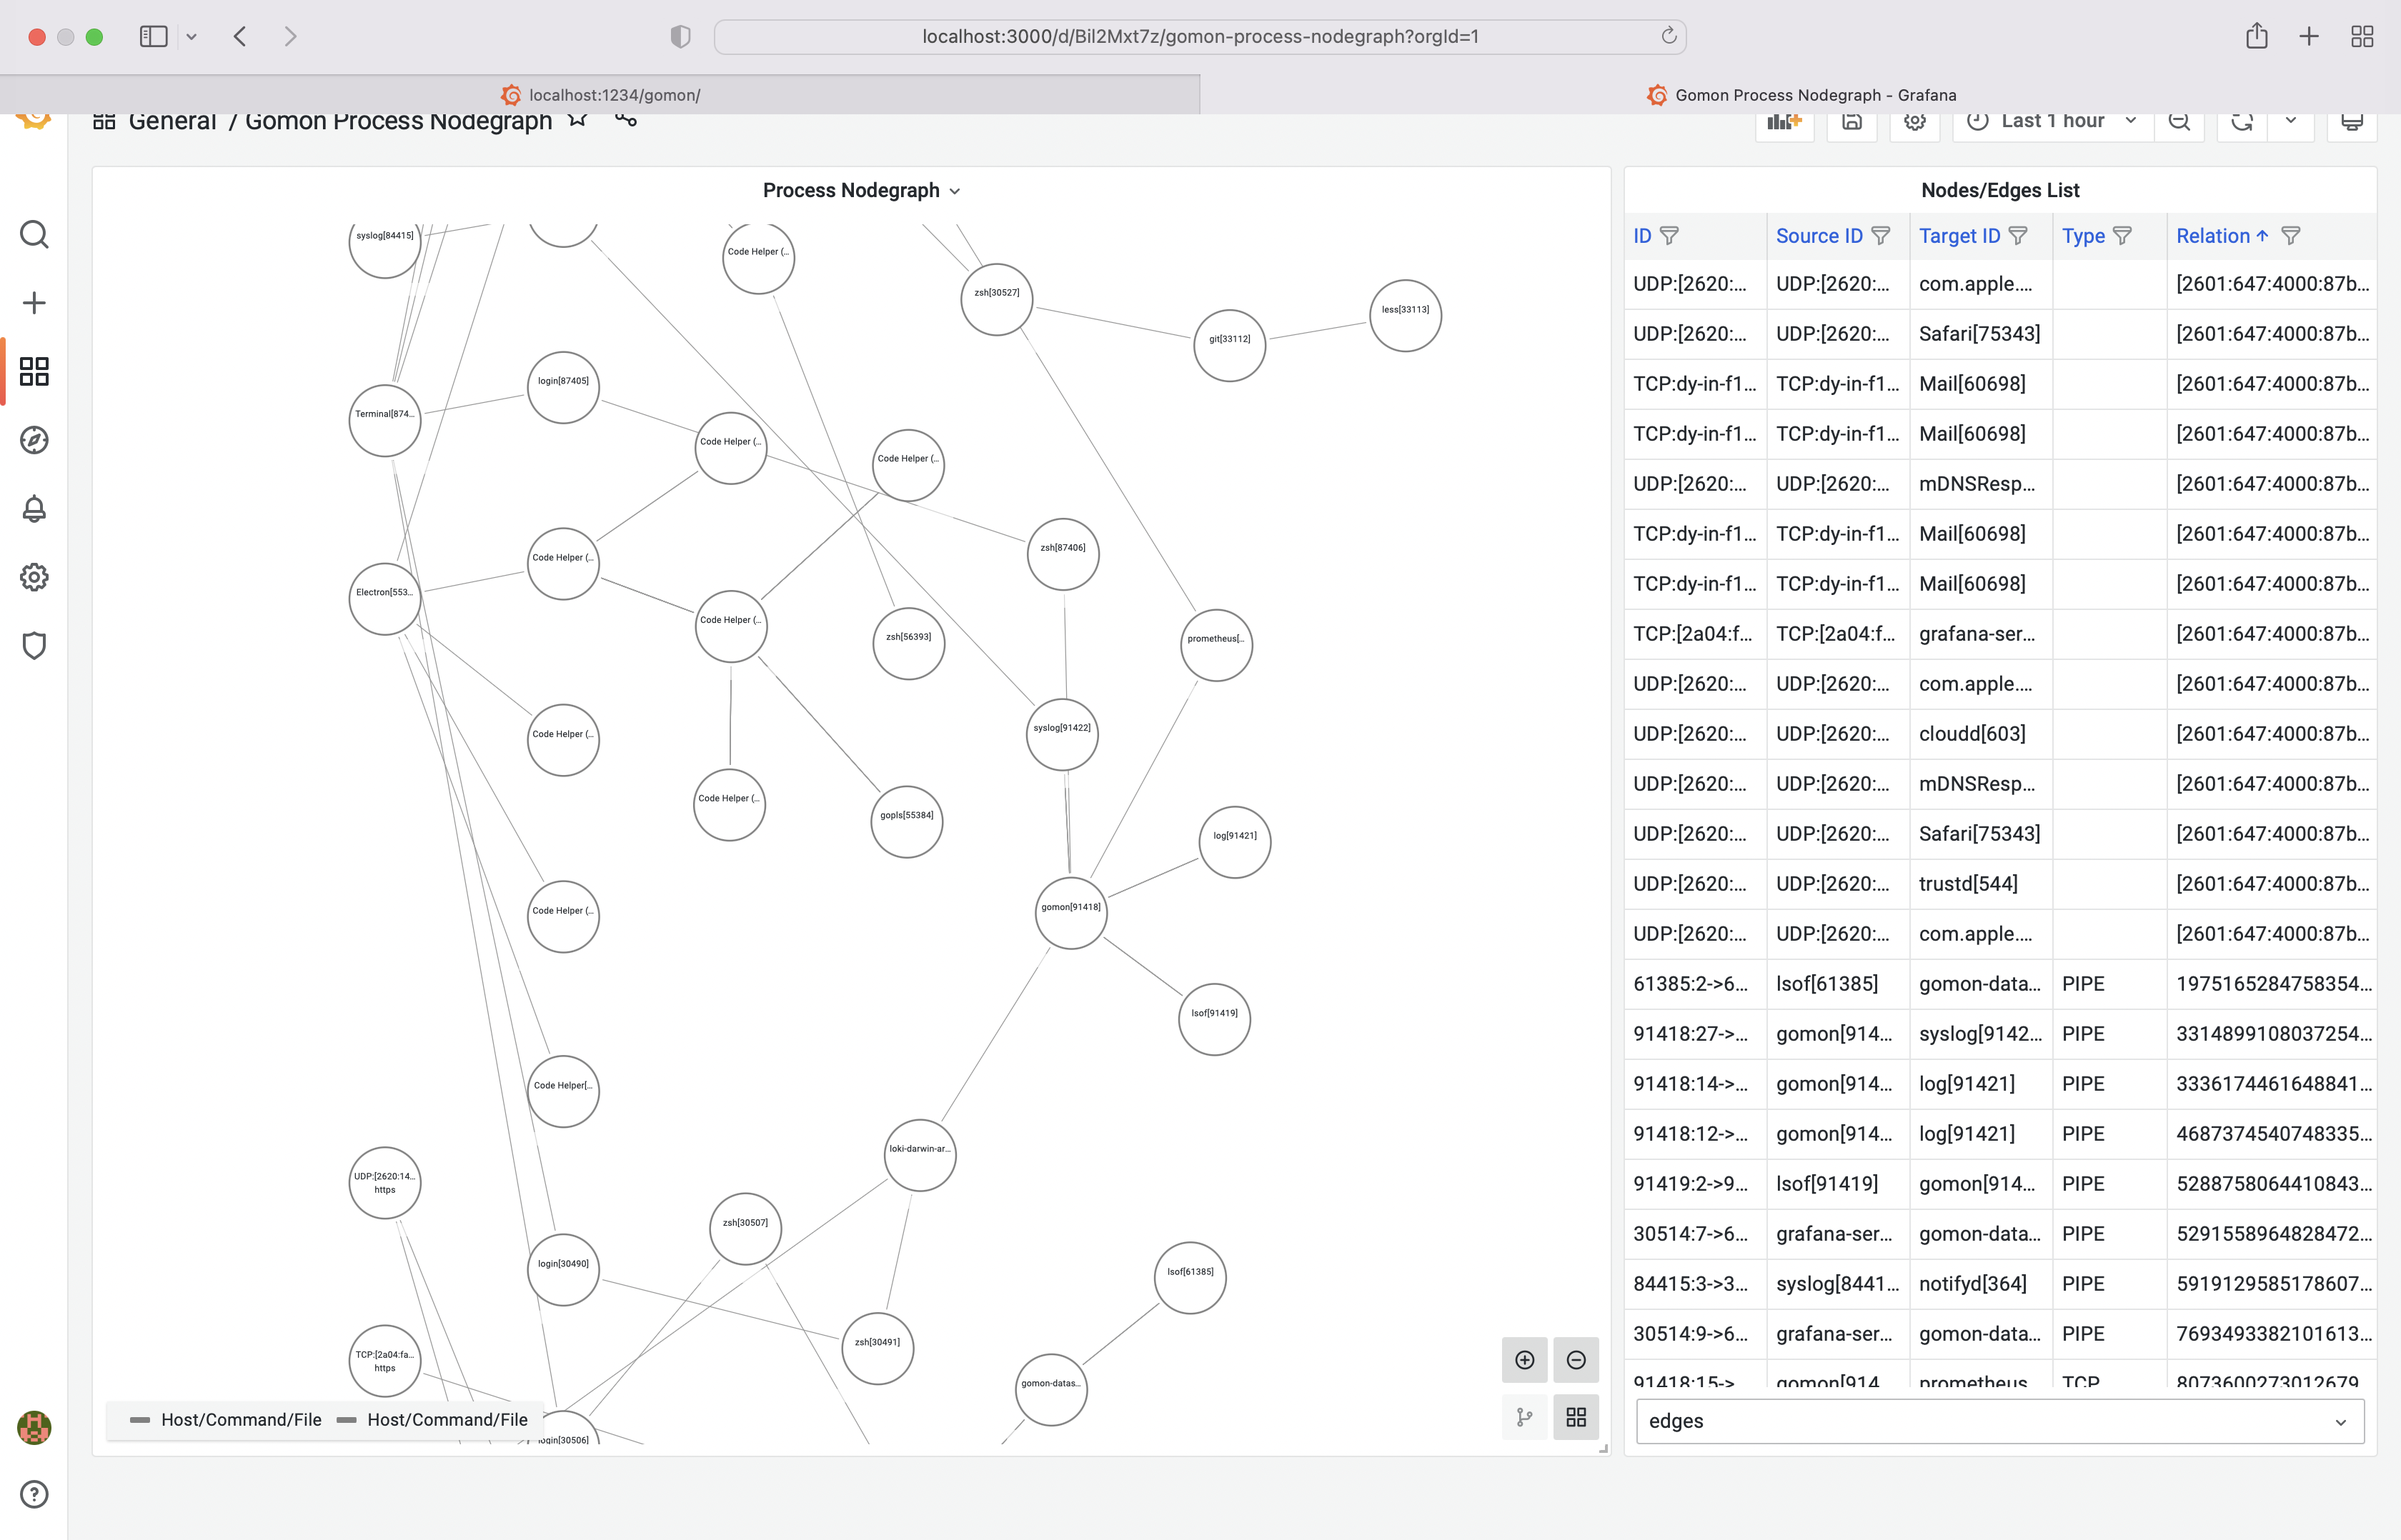
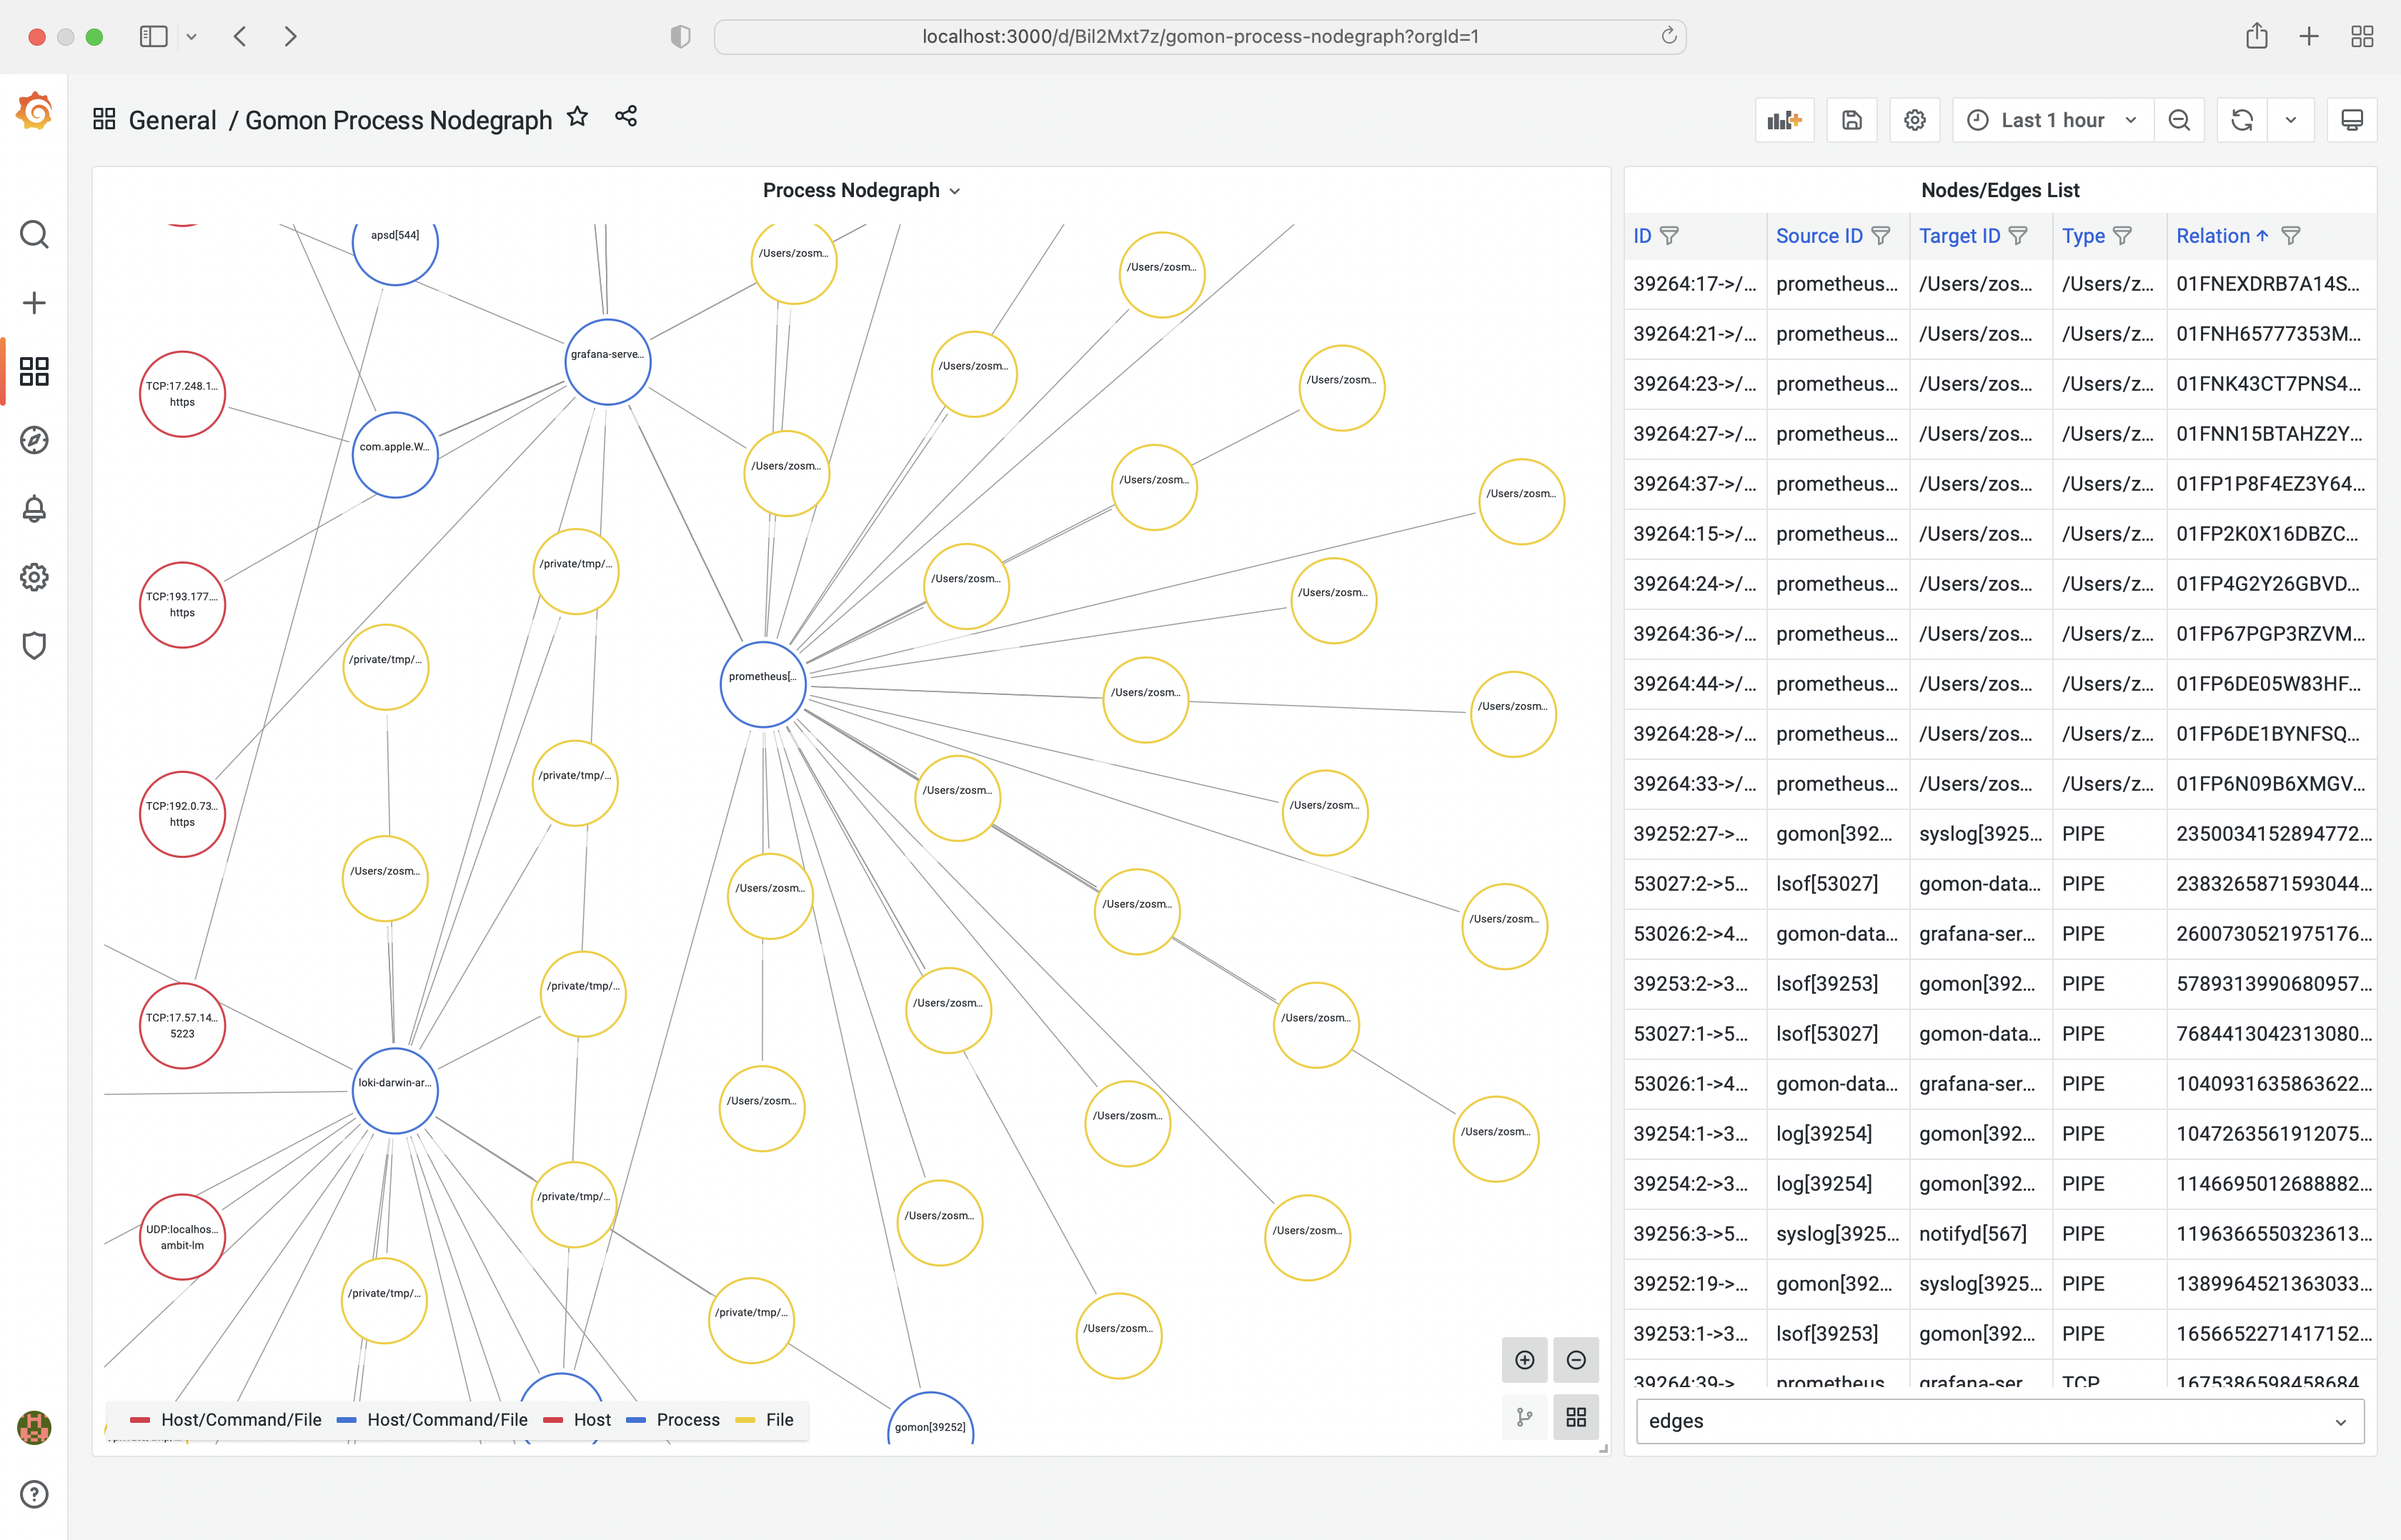
fix node colors in nodegraph

diff --git a/Magefile.go b/Magefile.go
@@ -33,9 +33,9 @@ var (
 		return runtime.GOARCH
 	}()
 
+	// getExecutableName in github.com/grafana/grafana-plugin-sdk-go/build/common.go
+	// expects the executable name to be appended with "_$GOOS_$GOARCH"
 	backend = fmt.Sprintf("dist/%s_%s_%s", plugin, goos, goarch)
-
-	homeDir, _ = os.UserHomeDir()
 
 	grafanaDir = func() string {
 		if dir, ok := os.LookupEnv("GRAFANA_DIR"); ok {
@@ -70,7 +70,7 @@ var (
 
 // Upgrade refreshes dependencies.
 func Upgrade() error {
-	if err := command("yarn", "", "install"); err != nil {
+	if err := command("yarn", "", "install", "--fix", "--latest", "--force"); err != nil {
 		return err
 	}
 
@@ -78,11 +78,16 @@ func Upgrade() error {
 		return err
 	}
 
-	if err := command("rm", "", "-rf", "node_modules/@grafana/data/node_modules"); err != nil {
+	if err := command("go", "", "mod", "tidy", "-v"); err != nil {
 		return err
 	}
 
-	if err := command("go", "", "mod", "tidy", "-v"); err != nil {
+	return nil
+}
+
+// Frontend builds the web frontend of the data source.
+func Frontend() error {
+	if err := command("yarn", "", "build"); err != nil {
 		return err
 	}
 
@@ -96,15 +101,6 @@ func Backend() error {
 	}
 
 	if err := command("go", "", "build", "-v", "-o", backend, "./pkg"); err != nil {
-		return err
-	}
-
-	return nil
-}
-
-// Frontend builds the web frontend of the data source.
-func Frontend() error {
-	if err := command("yarn", "", "build"); err != nil {
 		return err
 	}
 

diff --git a/pkg/nodegraph.go b/pkg/nodegraph.go
@@ -215,25 +215,27 @@ func frames() (nodes *data.Frame, edges *data.Frame) {
 		Path:        "id",
 	}
 	nodes.Fields[1].Config = &data.FieldConfig{
+		Color:       map[string]interface{}{"mode": "fixed", "fixedColor": "red"},
 		DisplayName: "Host/Command/File",
 		Path:        "command",
 	}
 	nodes.Fields[2].Config = &data.FieldConfig{
+		Color:       map[string]interface{}{"mode": "fixed", "fixedColor": "blue"},
 		DisplayName: "Host/Command/File",
 		Path:        "command",
 	}
 	nodes.Fields[3].Config = &data.FieldConfig{
-		Color:       map[string]interface{}{"fixedColor": "red"},
+		Color:       map[string]interface{}{"mode": "fixed", "fixedColor": "red"},
 		DisplayName: "Host",
 		Path:        "host",
 	}
 	nodes.Fields[4].Config = &data.FieldConfig{
-		Color:       map[string]interface{}{"fixedColor": "green"},
+		Color:       map[string]interface{}{"mode": "fixed", "fixedColor": "blue"},
 		DisplayName: "Process",
 		Path:        "process",
 	}
 	nodes.Fields[5].Config = &data.FieldConfig{
-		Color:       map[string]interface{}{"fixedColor": "blue"},
+		Color:       map[string]interface{}{"mode": "fixed", "fixedColor": "yellow"},
 		DisplayName: "File",
 		Path:        "file",
 	}

diff --git a/README.md b/README.md
@@ -63,8 +63,8 @@ mage -v [backend]
 
 The backend’s query of process connections requires root authority. Therefore, the backend module must be owned by root with its setuid permission set:
 ```zsh
-sudo chown 0:0 dist/gomon-datasource_$(go env GOOS)_$(go env GOARCH)
-sudo chmod u+s dist/gomon-datasource_$(go env GOOS)_$(go env GOARCH)
+sudo chown 0:0 dist/gomon-datasource-$(go env GOOS)-$(go env GOARCH)
+sudo chmod u+s dist/gomon-datasource-$(go env GOOS)-$(go env GOARCH)
 ```
 
 ## Install the Gomon Data Source Plugin
